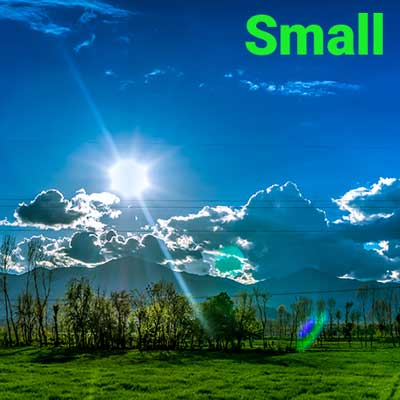
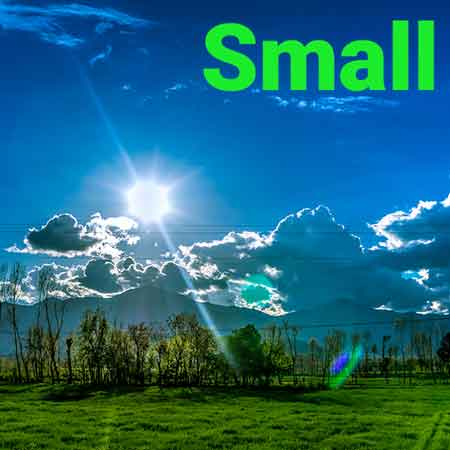
commit

diff --git a/lesson6/preston6.html b/lesson6/preston6.html
@@ -51,15 +51,15 @@
     </div>
     <main>
         <h1>Preston</h1>
-        <div class="hero-ph">
-            
 
+        <section class="hero">
                 <picture class="photoA">
-                    <source media="(max-width: 400px)" srcset="images/wdd230_image_franklin_small.jpg">
+                    <source media="(max-width: 450px)" srcset="images/wdd230_image_franklin_small.jpg">
                     <source media="(max-width: 800px)" srcset="images/wdd230_image_franklin_medium.jpg">
-                    <source media="(max-width: 1000px)" srcset="images/wdd230_image_franklin_large.jpg">
-                    <img src="images/wdd230_image_franklinOriginal.jpeg" alt="image of Franklin">
-               
+                    <source media="(max-width: 1100px)" srcset="images/wdd230_image_franklin_large.jpg">
+                    <img src="images/wdd230_image_franklinOriginal.jpg" alt="image of Franklin">
+                </picture>
+  
                 <div class="stats">
                     <h2>Weather Summary</h2>
                     <div class="summary">
@@ -81,8 +81,8 @@
                         </ul>
                     </div>
                 </div>
-            </picture>
-        </div>
+        </section>
+
         <section class="forecast">
             <h2>Five day Forecast</h2>
             <div class="five-day">
@@ -119,20 +119,29 @@
             <div class="city-img"><img src="images/soccer-kids.jpg" alt="kids playing soccer"></div>
             <div class="city-article">
                 <p>Lorem ipsum dolor sit amet, consectetur adipiscing elit. Integer nec odio. Praesent libero. Sed
-                    cursus ante dapibus diam. Sed nisi. Nulla quis sem at nibh elementum imperdiet. Duis sagittis ipsum.
-                    Praesent mauris. Fusce nec tellus sed augue semper porta. Mauris massa. Vestibulum lacinia arcu eget
+                    cursus ante dapibus diam. Sed nisi. Nulla quis sem at nibh elementum imperdiet. Duis sagittis
+                    ipsum.
+                    Praesent mauris. Fusce nec tellus sed augue semper porta. Mauris massa. Vestibulum lacinia arcu
+                    eget
                     nulla. </p>
 
-                <p>Class aptent taciti sociosqu ad litora torquent per conubia nostra, per inceptos himenaeos. Curabitur
-                    sodales ligula in libero. Sed dignissim lacinia nunc. Curabitur tortor. Pellentesque nibh. Aenean
-                    quam. In scelerisque sem at dolor. Maecenas mattis. Sed convallis tristique sem. Proin ut ligula vel
-                    nunc egestas porttitor. Morbi lectus risus, iaculis vel, suscipit quis, luctus non, massa. Fusce ac
-                    turpis quis ligula lacinia aliquet. Mauris ipsum. Nulla metus metus, ullamcorper vel, tincidunt sed,
+                <p>Class aptent taciti sociosqu ad litora torquent per conubia nostra, per inceptos himenaeos.
+                    Curabitur
+                    sodales ligula in libero. Sed dignissim lacinia nunc. Curabitur tortor. Pellentesque nibh.
+                    Aenean
+                    quam. In scelerisque sem at dolor. Maecenas mattis. Sed convallis tristique sem. Proin ut ligula
+                    vel
+                    nunc egestas porttitor. Morbi lectus risus, iaculis vel, suscipit quis, luctus non, massa. Fusce
+                    ac
+                    turpis quis ligula lacinia aliquet. Mauris ipsum. Nulla metus metus, ullamcorper vel, tincidunt
+                    sed,
                     euismod in, nibh. </p>
 
                 <p>Quisque volutpat condimentum velit. Class aptent taciti sociosqu ad litora torquent per conubia
-                    nostra, per inceptos himenaeos. Nam nec ante. Sed lacinia, urna non tincidunt mattis, tortor neque
-                    adipiscing diam, a cursus ipsum ante quis turpis. Nulla facilisi. Ut fringilla. Suspendisse potenti.
+                    nostra, per inceptos himenaeos. Nam nec ante. Sed lacinia, urna non tincidunt mattis, tortor
+                    neque
+                    adipiscing diam, a cursus ipsum ante quis turpis. Nulla facilisi. Ut fringilla. Suspendisse
+                    potenti.
                     Nunc feugiat mi a tellus consequat imperdiet. Vestibulum sapien. Proin quam. Etiam ultrices.
                     Suspendisse in justo eu magna luctus suscipit. Sed lectus. </p>
             </div>

diff --git a/lesson6/css/small.css b/lesson6/css/small.css
@@ -46,16 +46,24 @@ header img {
 }
 
 .headings h1 {
-    font-size: 1.6rem;
+    font-size: 1.7rem;
+    letter-spacing: .1rem;
 }
 
 .headings h2 {
-    font-size: .8rem;
-    font-family: Roboto;
-    letter-spacing: .12rem;
+    font-size: 1rem;
+    letter-spacing: .08rem;
 }
 
+main h1 {
+    margin-top: 0;
+}
 
+section h2 {
+    color: #004F2A; 
+    font-size: 1.2rem;
+    padding-top: 6px;
+ }
 
 /* -----nav formatting here----- */
     div#navWrapper {
@@ -155,42 +163,41 @@ filter: progid:DXImageTransform.Microsoft.gradient( startColorstr='#e5e059', end
      padding: 5px 3%;
 
  }
- 
-main h1 {
-    margin-top: 0;
-}
-
-section h2 {
-    color: #004F2A; 
-    font-size: 1.2rem;
-    padding-top: 6px;
- }
 
 main section {
     background-color: #EEEBD0;
     padding: 2px 2%;
     margin: 10px 0;
-    border: 2px solid #004F2A;
+    border: 1px solid #004F2A;
 }
 
-div.hero-ph {
+section.hero {
     margin: 0 auto;
     padding: 0;
     position: relative;
     width: 100%;
+    height: auto;
     border: 2px solid #004F2A;
 }
+/*
+section.hero-ph  {
+    margin: 0 auto;
+    width: 100%;
+    height: 100%;
+}
+*/
 
-div.hero-ph picture.photoA {
+picture.photoA {
     display: block;
     width: 100%;
+    height: 100%;
     margin: 0;
     padding: 0;
 }
 
-div.hero-ph picture.photoA img {width: 100%;}
+picture.photoA img {width: 100%;}
 
-div.hero-ph div.stats {
+.stats {
     position: absolute;
 	top: 25px;
 	left: 25px;

diff --git a/lesson6/css/medium.css b/lesson6/css/medium.css
@@ -27,13 +27,10 @@
     .navigation li:first-child {
 		display: none;
 	}
-/*
-    .hero {
-        height: 400px;
+
+    section.hero {
+        max-width: 900px;
     }
-    .hero-ph img {
-        height:396px;
-    }*/
     
     .forecast {display: block;}
 

diff --git a/lesson6/css/large.css b/lesson6/css/large.css
@@ -8,6 +8,10 @@
         margin: 0 auto;
     }
 
+    section.hero {
+        max-width: 1100px;
+    }
+
     .city-img {
         max-width: 460px;
     }
